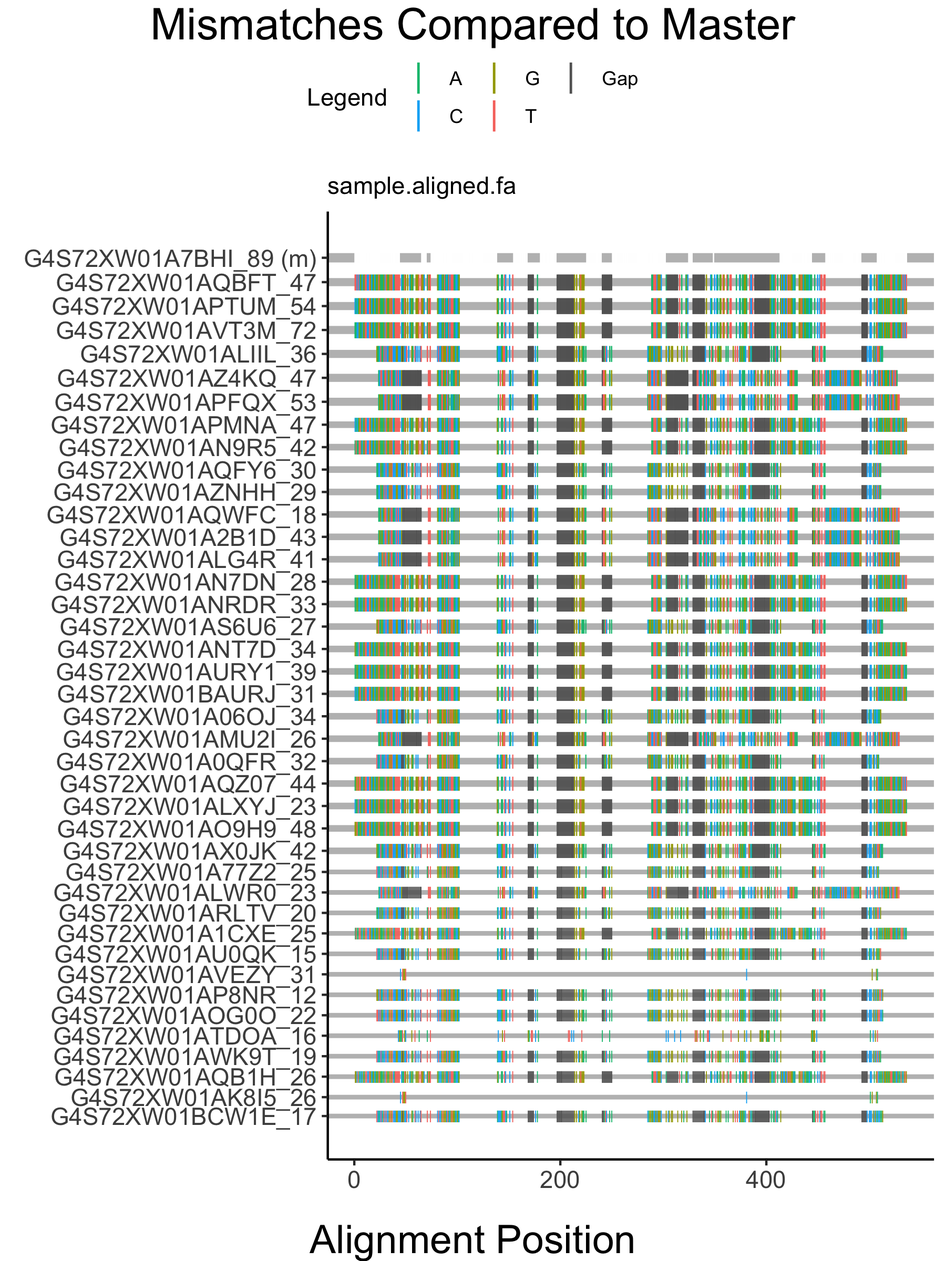
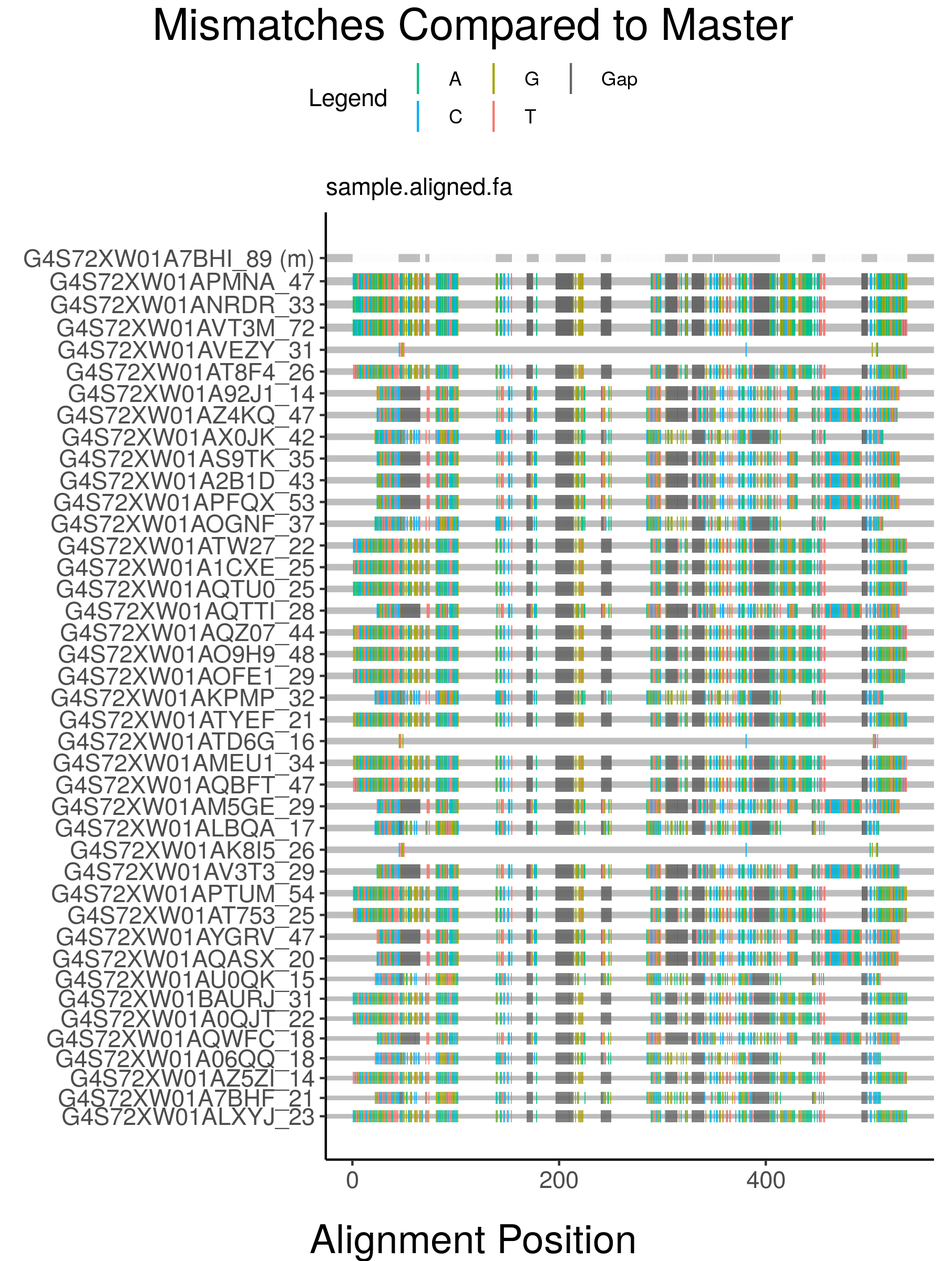
fixes #28.  Amended README.

diff --git a/README.md b/README.md
@@ -1,32 +1,40 @@
 
 <!-- README.md is generated from README.Rmd. Please edit that file -->
-highlineR: a tool for visualizing NGS datasets in R
-===================================================
 
-[Highlighter](https://www.hiv.lanl.gov/content/sequence/HIGHLIGHT/highlighter_top.html) is a web-based tool maintained by the Los Alamos National laboratory that makes it easy for investigators to quickly scan their NGS data for compositional differences. However, it is inconvenient for users to use Highlighter to process a large number of NGS files as the tool only accepts a single file as input and limits users to 500 sequences per file. Furthermore, the tool does not visualize the frequencies of different sequence variants in a dataset.
+# highlineR: a tool for visualizing NGS datasets in R
 
-The 'highlineR' package provides users with easy-to-use functions for batch-processing of NGS data and generating plots similar to Highlighter that “stretch” lines to indicate variant frequencies in the data.
+[Highlighter](https://www.hiv.lanl.gov/content/sequence/HIGHLIGHT/highlighter_top.html)
+is a web-based tool maintained by the Los Alamos National laboratory
+that makes it easy for investigators to quickly scan their NGS data for
+compositional differences. However, it is inconvenient for users to use
+Highlighter to process a large number of NGS files as the tool only
+accepts a single file as input and limits users to 500 sequences per
+file. Furthermore, the tool does not visualize the frequencies of
+different sequence variants in a dataset.
 
-Installation
-------------
+The ‘highlineR’ package provides users with easy-to-use functions for
+batch-processing of NGS data and generating plots similar to Highlighter
+that “stretch” lines to indicate variant frequencies in the data.
 
-You can install the released version of highlineR from [CRAN](https://CRAN.R-project.org) with:
+## Installation
 
-``` r
-install.packages("highlineR")
-```
-
-And the development version from [GitHub](https://github.com/) with:
+You can install the development version from
+[GitHub](https://github.com/) with:
 
 ``` r
 # install.packages("devtools")
 devtools::install_github("PoonLab/highlineR")
 ```
 
-Import
-------
+## Import
 
-HighlineR accepts aligned nucleotide or amino acid NGS data in the FASTA format as input. Aligned sequences stored in FASTQ format can also be converted and read by the program. In theory, data generated using any NGS instrument and methodology can be input to highlineR as long as the sequence alignment is supplied in an accepted file format. There is no limit on the number of sequences that a file may contain nor on the number of files that may be input.
+HighlineR accepts aligned nucleotide or amino acid NGS data in the FASTA
+format as input. Aligned sequences stored in FASTQ format can also be
+converted and read by the program. In theory, data generated using any
+NGS instrument and methodology can be input to highlineR as long as the
+sequence alignment is supplied in an accepted file format. There is no
+limit on the number of sequences that a file may contain nor on the
+number of files that may be input.
 
 The import function accepts three types of input:
 
@@ -36,7 +44,10 @@ The import function accepts three types of input:
 
 3.  A vector of paths to NGS file(s).
 
-For example, let's import a FASTA file to analyze using highlineR. (Data adapted from [Ferrandiz-Rovira et. al.](https://www.nature.com/articles/hdy201513#data-archiving) available [here](http://evobiolab.biol.amu.edu.pl/amplisat/index.php?examples))
+For example, let’s import a FASTA file to analyze using highlineR. (Data
+adapted from [Ferrandiz-Rovira et.
+al.](https://www.nature.com/articles/hdy201513#data-archiving) available
+[here](http://evobiolab.biol.amu.edu.pl/amplisat/index.php?examples))
 
 ``` r
 library(highlineR)
@@ -46,31 +57,35 @@ fn <- paste0(base, "/sample.aligned.fa")
 
 # Default import
 import_raw_seq(fn)
-#> <environment: 0x7fcb4aca9b70>
+#> <environment: 0x558562344140>
 #> attr(,"class")
 #> [1] "session"     "environment"
 ```
 
-highlineR recognizes standard file extensions (.fasta, .fa, .fas, .fastq, .fq). If a nonstandard file extension is being used (eg .txt) then the file format can be specified as follows:
+highlineR recognizes standard file extensions (.fasta, .fa, .fas,
+.fastq, .fq). If a nonstandard file extension is being used (eg .txt)
+then the file format can be specified as follows:
 
 ``` r
 # Import NGS files with non-standard file extensions
 import_raw_seq("/sample.txt", datatype = "fasta")
 ```
 
-The file we are using contains nucleotide sequences. If the file of interest contains amino acid sequences instead then run:
+The file we are using contains nucleotide sequences. If the file of
+interest contains amino acid sequences instead then run:
 
 ``` r
 # Import amino acid data
 import_raw_seq("/sample.aligned.fa", seqtype = "amino acid")
 ```
 
-The `import_raw_seq()` function creates an S3 object called a `Data` object with the following structure:
+The `import_raw_seq()` function creates an S3 object called a `Data`
+object with the following structure:
 
 ``` r
 # Classes of Data objects
 str(highlineR.session[[fn]])
-#> Classes 'fasta', 'nucleotide', 'Data', 'environment' <environment: 0x7fcb4d336bf0>
+#> Classes 'fasta', 'nucleotide', 'Data', 'environment' <environment: 0x55856263a608>
 
 # Attributes of Data objects
 ls(highlineR.session[[fn]])
@@ -78,27 +93,50 @@ ls(highlineR.session[[fn]])
 #> [6] "seq_diff"
 ```
 
-This means that the classes of a `Data` object provide information about the data type of the NGS file and the sequence type of the sequences contained in the file.
+This means that the classes of a `Data` object provide information about
+the data type of the NGS file and the sequence type of the sequences
+contained in the file.
 
 `Data` objects are comprised of the following attributes:
 
--   `path` is the absolute path to the NGS file represented by the object,
+  - `path` is the absolute path to the NGS file represented by the
+    object,
 
--   `raw_seq` is a list that will contain the parsed sequences of the NGS file,
+  - `raw_seq` is a list that will contain the parsed sequences of the
+    NGS file,
 
--   `compressed` is an S3 object that inherits from R's base `environment` class and will contain the compressed sequences of the NGS file,
+  - `compressed` is an S3 object that inherits from R’s base
+    `environment` class and will contain the compressed sequences of the
+    NGS file,
 
--   `sample` is a compressed environment that will contain randomly sampled sequences from the the compressed structure,
+  - `sample` is a compressed environment that will contain randomly
+    sampled sequences from the the compressed structure,
 
--   `master` is a character string representing the master sequence to which other sequences will be compared during plotting, and
+  - `master` is a character string representing the master sequence to
+    which other sequences will be compared during plotting, and
 
--   `seq_diff` is a character matrix that will contain sequence differences in variant sequences compared to the master sequence.
+  - `seq_diff` is a character matrix that will contain sequence
+    differences in variant sequences compared to the master sequence.
 
-The `import_raw_seq()` function also creates another S3 object called a `session` object that acts as a parent container to hold multiple `Data` objects for later plotting. This functionality allows multiple NGS files to be added to a single `session` by unique function calls for later batch processing.
+The `import_raw_seq()` function also creates another S3 object called a
+`session` object that acts as a parent container to hold multiple `Data`
+objects for later plotting. This functionality allows multiple NGS files
+to be added to a single `session` by unique function calls for later
+batch processing.
 
-In the above example, we first created an empty `session` using the `init_session()` function. This function returns the created `session` object which must be stored by the user for further use. In the above example, the `session` was named `highlineR.session`. This is the default name expected by the program. Following this, if the session argument is not provided, `Data` objects are added to the `highlineR.session` object by default.
+In the above example, we first created an empty `session` using the
+`init_session()` function. This function returns the created `session`
+object which must be stored by the user for further use. In the above
+example, the `session` was named `highlineR.session`. This is the
+default name expected by the program. Following this, if the session
+argument is not provided, `Data` objects are added to the
+`highlineR.session` object by default.
 
-To override this default behaviour, the `session` created using `init_session()` can be stored using a different variable name `Data` objects can be imported into that `session`, using the session argument. Alternatively, the result returned by the `import_raw_seq()` function can be stored without a direct call to `init_session()`:
+To override this default behaviour, the `session` created using
+`init_session()` can be stored using a different variable name `Data`
+objects can be imported into that `session`, using the session argument.
+Alternatively, the result returned by the `import_raw_seq()` function
+can be stored without a direct call to `init_session()`:
 
 ``` r
 # Import into initialized session
@@ -111,10 +149,10 @@ my_session <- import_raw_seq(fn) # To create session using only one import call,
 import_raw_seq(paste0(base, "/sample.fa"), session = my_session)
 ```
 
-Parsing
--------
+## Parsing
 
-Following data import, single `Data` objects or complete `session` objects can be parsed as follows:
+Following data import, single `Data` objects or complete `session`
+objects can be parsed as follows:
 
 ``` r
 # Parse single Data object
@@ -124,7 +162,8 @@ Following data import, single `Data` objects or complete `session` objects can b
 parse_raw_seq(highlineR.session)
 ```
 
-The `parse_raw_seq()` function stream reads NGS files and populates the `raw_seq` lists of Data objects with `(header, sequence)` tuples.
+The `parse_raw_seq()` function stream reads NGS files and populates the
+`raw_seq` lists of Data objects with `(header, sequence)` tuples.
 
 ``` r
 # Strucure of the parsed file
@@ -153,19 +192,26 @@ head(highlineR.session[[fn]]$raw_seq, n=3)
 #> [1] "CACAGTACGATTCCTGCAGCAGATGAAAGCTGAGTGTCATTTTTTCAATGGGACAGAGCGGGTGTGGC--ATGT------GACCAGATACATCTTTAACCAG------------------------------------GAGGAAATCCTGCGCT--------------------TTGACA---------------------------------GCGATGTGGGGG---------------------------------------------------------------AATTTCGGGC----A-----------GTTAGCGAGC----------------TGGGGCAG-CCCATAGCTGAGTACTTGAACAGCCAGAAGGACATCCTG---------------GACAATTACCGCGCCGCTGTGGACA---GGTGCAGAAACAACTACGCGCTTGTT-----------------------------------------AGCCTAATGTCAAAGCGGAGAGTTAAGCCGAATACGTG"
 ```
 
-Compression
------------
+## Compression
 
-After parsing, `Data` or `session` objects will be compressed into a format reminiscent of a dictionary structure of key:value pairs. In this structure, unique sequences serve as keys with read counts as values. `Data` or `session` objects can be compressed as follows:
+After parsing, `Data` or `session` objects will be compressed into a
+format reminiscent of a dictionary structure of key:value pairs. In this
+structure, unique sequences serve as keys with read counts as values.
+`Data` or `session` objects can be compressed as follows:
 
 ``` r
 # Compression
 compress(highlineR.session, unique = TRUE)
 ```
 
-The `unique` flag specifies that the NGS file that we are working with has been processed so that it only contains unique sequences with read counts stored at the end of the sequence labels. If read counts should be inferred from the number of distinct instances of sequences in the file, then this flag should be `FALSE`.
+The `unique` flag specifies that the NGS file that we are working with
+has been processed so that it only contains unique sequences with read
+counts stored at the end of the sequence labels. If read counts should
+be inferred from the number of distinct instances of sequences in the
+file, then this flag should be `FALSE`.
 
-The `compress()` function populates the `compressed` environments of `Data` objects.
+The `compress()` function populates the `compressed` environments of
+`Data` objects.
 
 ``` r
 # Number of unique sequences in compressed structure
@@ -181,67 +227,89 @@ sort(highlineR.session[[fn]]$compressed)[c_len:(c_len-2), , drop = F]
 #> CACAGTACGATTCCTGCAGCAGATGAAAGCTGAGTGTCATTTTTTCAATGGGACAGAGCGGGTGTGGC--ATGT------GACCAGATACATCTTTAACCAG------------------------------------GAGGAAATCCTGCGCT--------------------TTGACA---------------------------------GCGATGTGGGGG---------------------------------------------------------------AATTTCGGGC----A-----------GTTAGCGAGC----------------TGGGGCAG-CCCATAGCTGAGTACTTGAACAGCCAGAAGGACATCCTG---------------GACAATTACCGCGCCGCTGTGGACA---GGTGCAGAAACAACTACGCGCTTGTT-----------------------------------------AGCCTAATGTCAAAGCGGAGAGTTAAGCCGAATACGTG   54
 ```
 
-The `N` and `M` arguments to the `compress()` function are used to determine the behaviour of the sampling functions described below which populate the `sample` environments of `Data` objects.
+The `N` and `M` arguments to the `compress()` function are used to
+determine the behaviour of the sampling functions described below which
+populate the `sample` environments of `Data` objects.
 
 ### Sampling
 
-In an NGS experiment, if the number of input sequences is much greater than the number of templates (nucleic acids) available during the sequencing reaction, then the frequency distribution of variants produced may be skewed. In an attempt to accommodate for this phenomenon, highlineR utilizes a read\_sample() function which randomly samples N reads with replacement, M times. The average of the resulting frequencies of variants present in at least 85% of the replicates is then used as the expected variant frequencies.
+In an NGS experiment, if the number of input sequences is much greater
+than the number of templates (nucleic acids) available during the
+sequencing reaction, then the frequency distribution of variants
+produced may be skewed. In an attempt to accommodate for this
+phenomenon, highlineR utilizes a read\_sample() function which randomly
+samples N reads with replacement, M times. The average of the resulting
+frequencies of variants present in at least 85% of the replicates is
+then used as the expected variant frequencies.
 
-Sampling is performed automatically during compression. A dataset can be resampled without re-compressing using the `resample()` function.
+Sampling is performed automatically during compression. A dataset can be
+resampled without re-compressing using the `resample()` function.
 
 ``` r
 # Sample created during compression
 # Number of sequences in sample environment
 s_len <- length(highlineR.session[[fn]]$sample)
 s_len
-#> [1] 181
+#> [1] 153
 
 # Most abundance sequences in sample environment
 sort(highlineR.session[[fn]]$sample)[s_len:(s_len-2), , drop = F]
 #>                                                                                                                                                                                                                                                                                                                                                                                                                                                                                                                                                          freq
-#> AACCGAACGATTCCTGCAGCAGATGAAAGCTGAGTGTCATTTTTTCAATGGGACAGAGCGGGTGTGGC--ATGT------GACCAGATACATCTTTAACCAG------------------------------------GAGGAAATCCTGCGCT--------------------TTGACA---------------------------------GCGATGTGGGGG---------------------------------------------------------------AATTTCGGGC----A-----------GTTAGCGAGC----------------TGGGGCAG-CCCATAGCTGAGTACTTGAACAGCCAGAAGGACATCCTG---------------GACAATTACCGCGCCGCTGTGGACA---GGTGCAGAAACAACTACGCGCTTGTT-----------------------------------------AGCCTAATGTCAAAGCGGAGAGTTAAGCCGAAGTCTCT    7
-#> --------------------------------------------TTGCAAGCAGGTTGCTCAGGC-----CCAC----------------------------------------------------------------TTGGTCACTCTGTGCA--------------TTGCCCTTGGCA----------------ATCCGTGTGTTCCGTTTCCAATACCCCGG---------------CCCCTCCTGC----------------------------------------------------TCTATCCATGGCGCTCGCGGCT----CCATCCTCGGCTTCGGGGCG-TCGCTGTCAAAGCGCACGAACTGCGTGTCCTTCACATAGCCCACTTCCATATGCCGGGGCTCCC-------------------------------CTCCGGGGCCGGG-----------------------------------ACACGGAGGTTAGTT-----------------------------    7
-#> TTCTCGACGATTCCTGCAGCAGATGAAAGCTGAGTGTCATTTTTTCAATGGGACAGAGCGGGTGTGGC--ATGT------GACCAGATACATCTTTAACCAG------------------------------------GAGGAAATCCTGCGCT--------------------TTGACA---------------------------------GCGATGTGGGGG---------------------------------------------------------------AATTTCGGGC----A-----------GTTAGCGAGC----------------TGGGGCAG-CCCATAGCTGAGTACTTGAACAGCCAGAAGGACATCCTG---------------GACAATTACCGCGCCGCTGTGGACA---GGTGCAGAAACAACTACGCGCTTGTT-----------------------------------------AGCCTAATGTCAAAGCGGAGAGTTAAGCCGAAGTCTCT    5
+#> --------------------------------------------TTGCAAGCAGGTTGCTCAGGC-----CCAC----------------------------------------------------------------TTGGTCACTCTGTGCA--------------TTGCCCTTGGCA----------------ATCCGTGTGTTCCGTTTCCAATACCCCGG---------------CCCCTCCTGC----------------------------------------------------TCTATCCATGGCGCTCGCGGCT----CCATCCTCGGCTTCGGGGCG-TCGCTGTCAAAGCGCACGAACTGCGTGTCCTTCACATAGCCCACTTCCATATGCCGGGGCTCCC-------------------------------CTCCGGGGCCGGG-----------------------------------ACACGGAGGTTAGTT-----------------------------    8
+#> AACCGAACGATTCCTGCAGCAGATGAAAGCTGAGTGTCATTTTTTCAATGGGACAGAGCGGGTGTGGC--ATGT------GACCAGATACATCTTTAACCAG------------------------------------GAGGAAATCCTGCGCT--------------------TTGACA---------------------------------GCGATGTGGGGG---------------------------------------------------------------AATTTCGGGC----A-----------GTTAGCGAGC----------------TGGGGCAG-CCCATAGCTGAGTACTTGAACAGCCAGAAGGACATCCTG---------------GACAATTACCGCGCCGCTGTGGACA---GGTGCAGAAACAACTACGCGCTTGTT-----------------------------------------AGCCTAATGTCAAAGCGGAGAGTTAAGCCGAAGTCTCT    6
+#> -----------------------AGAGACTTCGGCTTAACTCTCCG------------------------CTTT------GACATTAGGCTA-ACAAGCGCG------------------------------------TAGTTGTTTCTGCACC------------------TGTCCACA---------------------------------GCGGCGCGGTAA----------------TTGTCCAGG----------------------------------ATGTCCTTCTGGCT----G-----------------------------TTCAAGTACTCAGCTATGGGCTGCCCCAGCTCGCTAACTGCCCGAAATTCCCCCACATCGCTGTCAAAGCGCAGGATTTCCT------CCTGGTTAAA---------------GATGTATCTGGTCACATGCCACACCCGCTCTGTCCCATTGAAAAATGACACTCAGCTTTCATCTGCTGCAGGAATCGTTCGGTT-------    5
 
 # Resampling
 resample(highlineR.session[[fn]], 
          N = c_len * 0.75,
          M = 10)
-#> <environment: 0x7fcb4d331ab0>
+#> <environment: 0x558562637b08>
 #> attr(,"class")
 #> [1] "compressed"  "environment"
 
 # New number of sequences in sample environment
 new_s_len <- length(highlineR.session[[fn]]$sample)
 new_s_len
-#> [1] 40
+#> [1] 41
 
 # Most abundance sequences in new sample environment
 sort(highlineR.session[[fn]]$sample)[new_s_len:(new_s_len-2), , drop = F]
 #>                                                                                                                                                                                                                                                                                                                                                                                                                                                                                                                                                          freq
-#> --------------------------------------------TTGCAAGCAGGTTGCTCAGGC-----CCAC----------------------------------------------------------------TTGGTCACTCTGTGCA--------------TTGCCCTTGGCA----------------ATCCGTGTGTTCCGTTTCCAATACCCCGG---------------CCCCTCCTGC----------------------------------------------------TCTATCCATGGCGCTCGCGGCT----CCATCCTCGGCTTCGGGGCG-TCGCTGTCAAAGCGCACGAACTGCGTGTCCTTCACATAGCCCACTTCCATATGCCGGGGCTCCC-------------------------------CTCCGGGGCCGGG-----------------------------------ACACGGAGGTTAGTT-----------------------------    4
-#> TTCTCGACGATTCCTGCAGCAGATGAAAGCTGAGTGTCATTTTTTCAATGGGACAGAGCGGGTGTGGC--ATGT------GACCAGATACATCTTTAACCAG------------------------------------GAGGAAATCCTGCGCT--------------------TTGACA---------------------------------GCGATGTGGGGG---------------------------------------------------------------AATTTCGGGC----A-----------GTTAGCGAGC----------------TGGGGCAG-CCCATAGCTGAGTACTTGAACAGCCAGAAGGACATCCTG---------------GACAATTACCGCGCCGCTGTGGACA---GGTGCAGAAACAACTACGCGCTTGTT-----------------------------------------AGCCTAATGTCAAAGCGGAGAGTTAAGCCGAAGTCTCT    3
-#> CACAGTACGATTCCTGCAGCAGATGAAAGCTGAGTGTCATTTTTTCAATGGGACAGAGCGGGTGTGGC--ATGT------GACCAGATACATCTTTAACCAG------------------------------------GAGGAAATCCTGCGCT--------------------TTGACA---------------------------------GCGATGTGGGGG---------------------------------------------------------------AATTTCGGGC----A-----------GTTAGCGAGC----------------TGGGGCAG-CCCATAGCTGAGTACTTGAACAGCCAGAAGGACATCCTG---------------GACAATTACCGCGCCGCTGTGGACA---GGTGCAGAAACAACTACGCGCTTGTT-----------------------------------------AGCCTAATGTCAAAGCGGAGAGTTAAGCCGAATACGTG    3
+#> CACAGTACGATTCCTGCAGCAGATGAAAGCTGAGTGTCATTTTTTCAATGGGACAGAGCGGGTGTGGC--ATGT------GACCAGATACATCTTTAACCAG------------------------------------GAGGAAATCCTGCGCT--------------------TTGACA---------------------------------GCGATGTGGGGG---------------------------------------------------------------AATTTCGGGC----A-----------GTTAGCGAGC----------------TGGGGCAG-CCCATAGCTGAGTACTTGAACAGCCAGAAGGACATCCTG---------------GACAATTACCGCGCCGCTGTGGACA---GGTGCAGAAACAACTACGCACTTGTT-----------------------------------------AGCCTAATGTCAAAGCGGAGAGTTAAGCCGAATACGTG    3
+#> AAGACAACGATTCCTGCAGCAGATGAAAGCTGAGTGTCATTTTTTCAATGGGACAGAGCGGGTGTGGC--ATGT------GACCAGATACATCTTTAACCAG------------------------------------GAGGAAATCCTGCGCT--------------------TTGACA---------------------------------GCGATGTGGGGG---------------------------------------------------------------AATTTCGGGC----A-----------GTTAGCGAGC----------------TGGGGCAG-CCCATAGCTGAGTACTTGAACAGCCAGAAGGACATCCTG---------------GACAATTACCGCGCCGCTGTGGACA---GGTGCAGAAACAACTACGCGCTTGTT-----------------------------------------AGCCTAATGTCAAAGCGGAGAGTTAAGCCGAATACGTG    3
+#> AACCGAACGATTCCTGCAGCAGATGAAAGCTGAGTGTCATTTTTTCAATGGGACAGAGCGGGTGTGGC--ATGT------GACCAGATACATCTTTAACCAG------------------------------------GAGGAAATCCTGCGCT--------------------TTGACA---------------------------------GCGATGTGGGGG---------------------------------------------------------------AATTTCGGGC----A-----------GTTAGCGAGC----------------TGGGGCAG-CCCATAGCTGAGTACTTGAACAGCCAGAAGGACATCCTG---------------GACAATTACCGCGCCGCTGTGGACA---GGTGCAGAAACAACTACGCGCTTGTT-----------------------------------------AGCCTAATGTCAAAGCGGAGAGTTAAGCCGAAGTCTCT    3
 ```
 
-Plotting
---------
+## Plotting
 
 The highlineR `plot()` function has several parameters:
 
--   `x`: A `Data` object or `session` object containing `Data` objects to plot.
--   `mode`: The desired mutation annotation for plotting. Options: "mismatch" (default), "svn" (Synonymous versus Non-Synonymous), "tvt" (Transition versus Transversion).
--   `master`: The sequence to which other sequences should be compared. By default, the most abundant sequence is selected.
--   `sort_by`: How should the sequences be ordered in a plot? Options: "similarity" (default), "frequency".
--   `rf`: Which reading frame should be used when determining Synonymous vs Non-Synonymous mutations? Options: 1 (default), 2, 3.
--   `use_sample`: Which environment should be plotted? If `TRUE`, then the `sample` environment is plotted. If `FALSE`, the complete `compressed` environment is plotted.
+  - `x`: A `Data` object or `session` object containing `Data` objects
+    to plot.
+  - `mode`: The desired mutation annotation for plotting. Options:
+    “mismatch” (default), “svn” (Synonymous versus Non-Synonymous),
+    “tvt” (Transition versus Transversion).
+  - `master`: The sequence to which other sequences should be compared.
+    By default, the most abundant sequence is selected.
+  - `sort_by`: How should the sequences be ordered in a plot? Options:
+    “similarity” (default), “frequency”.
+  - `rf`: Which reading frame should be used when determining Synonymous
+    vs Non-Synonymous mutations? Options: 1 (default), 2, 3.
+  - `use_sample`: Which environment should be plotted? If `TRUE`, then
+    the `sample` environment is plotted. If `FALSE`, the complete
+    `compressed` environment is plotted.
 
-Using the default parameters, the most abundant sequence is selected as the master sequences. Variant sequences in the sample environment are compared to this master to identify their compositional differences. These differences are plotted such that mismatches are highlighted as coloured lines and the variants are ordered according to their similarity (number of mismatches) to the master.
+Using the default parameters, the most abundant sequence is selected as
+the master sequences. Variant sequences in the sample environment are
+compared to this master to identify their compositional differences.
+These differences are plotted such that mismatches are highlighted as
+coloured lines and the variants are ordered according to their
+similarity (number of mismatches) to the master.
 
 ``` r
 # Plot session with variants sorted by similarity to master
 plot(highlineR.session)
-#> [1] "Plotting: /Library/Frameworks/R.framework/Versions/3.5/Resources/library/highlineR/extdata/sample.aligned.fa"
+#> [1] "Plotting: /home/art/R/x86_64-pc-linux-gnu-library/3.6/highlineR/extdata/sample.aligned.fa"
 #> [1] ".... Initializing Plot"
 #> [1] "........ Parameters:"
 #> [1] "............ Mode: mismatch"
@@ -263,7 +331,7 @@ Variants can also be sorted by frequency rather than similarity:
 ``` r
 # Plot session with variants sorted by relative abundance
 plot(highlineR.session, sort_by = "frequency")
-#> [1] "Plotting: /Library/Frameworks/R.framework/Versions/3.5/Resources/library/highlineR/extdata/sample.aligned.fa"
+#> [1] "Plotting: /home/art/R/x86_64-pc-linux-gnu-library/3.6/highlineR/extdata/sample.aligned.fa"
 #> [1] ".... Initializing Plot"
 #> [1] "........ Parameters:"
 #> [1] "............ Mode: mismatch"
@@ -280,12 +348,14 @@ plot(highlineR.session, sort_by = "frequency")
 
 <img src="man/figures/README-plot_freq-1.png" width="60%" style="display: block; margin: auto;" />
 
-Finally, rather than simply plotting mismatches, mutations can be annotated as synonymous and non-synonymous mutations or as transitions and transversions as follows:
+Finally, rather than simply plotting mismatches, mutations can be
+annotated as synonymous and non-synonymous mutations or as transitions
+and transversions as follows:
 
 ``` r
 # Plot synonymous and non-synonymous mutations
 plot(highlineR.session, mode = "svn")
-#> [1] "Plotting: /Library/Frameworks/R.framework/Versions/3.5/Resources/library/highlineR/extdata/sample.aligned.fa"
+#> [1] "Plotting: /home/art/R/x86_64-pc-linux-gnu-library/3.6/highlineR/extdata/sample.aligned.fa"
 #> [1] ".... Initializing Plot"
 #> [1] "........ Parameters:"
 #> [1] "............ Mode: svn"
@@ -307,7 +377,7 @@ plot(highlineR.session, mode = "svn")
 
 # Plot transitions and transversions
 plot(highlineR.session, mode = "tvt")
-#> [1] "Plotting: /Library/Frameworks/R.framework/Versions/3.5/Resources/library/highlineR/extdata/sample.aligned.fa"
+#> [1] "Plotting: /home/art/R/x86_64-pc-linux-gnu-library/3.6/highlineR/extdata/sample.aligned.fa"
 #> [1] ".... Initializing Plot"
 #> [1] "........ Parameters:"
 #> [1] "............ Mode: tvt"
